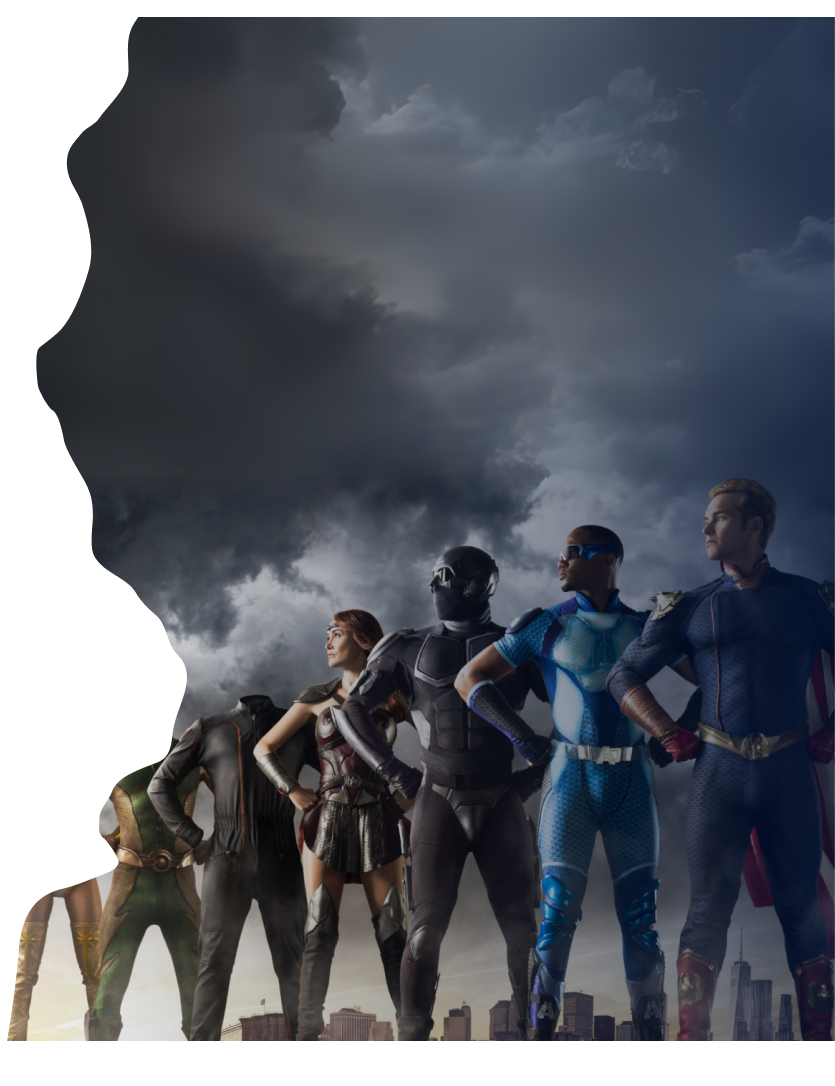
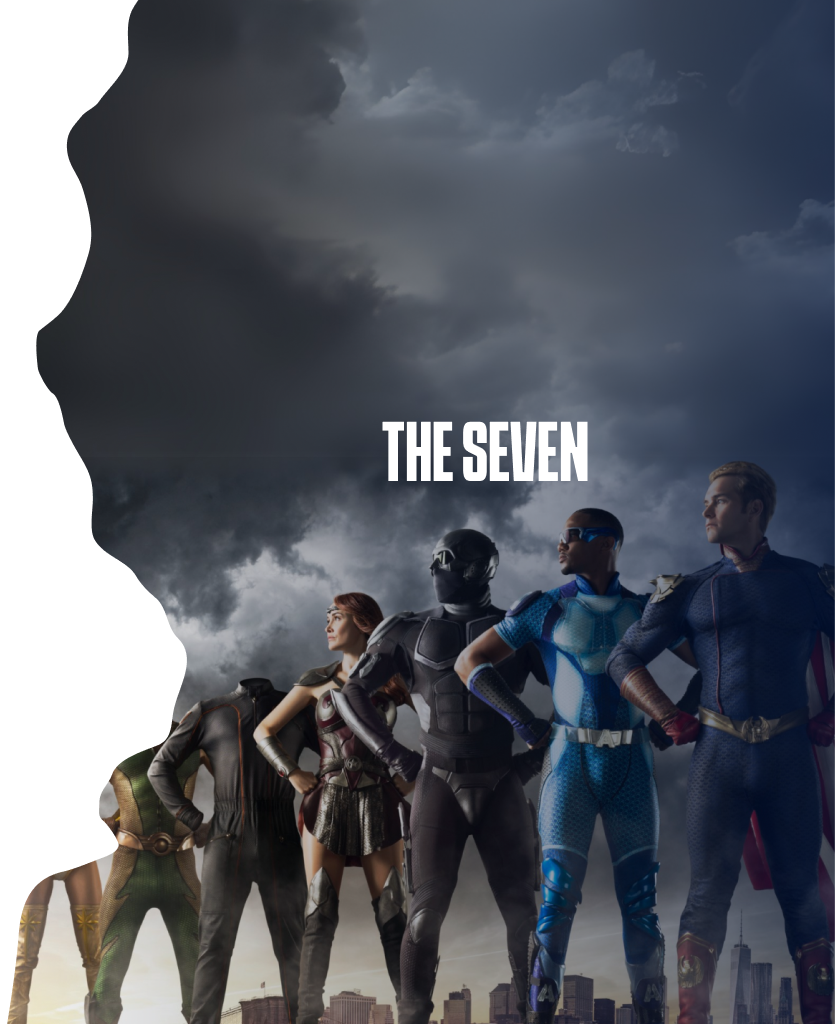
new

diff --git a/index.html b/index.html
@@ -10,7 +10,6 @@
     <a href="HTML/home_theboys.html" class="image-container left">
         <img src="ASSET/index_theboys.png" alt="The Boys">
         <div class="image-overlay"></div>
-        <div class="image-label_1"><img src="ASSET/teks_theboys.png" alt="The Boys"></div>
     </a>
     <div class="which-side">
         <h1>WHICH SIDE ARE YOU?</h1>
@@ -18,7 +17,6 @@
     <a href="HTML/home2_theseven.html" class="image-container right">
         <img src="ASSET/index_theseven.png" alt="The Seven">
         <div class="image-overlay"></div>
-        <div class="image-label_2"><img src="ASSET/teks_theseven2.png" alt="The Seven"></div>
     </a>
 </body>
 </html>
